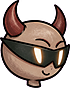
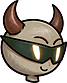
Diavoletto: testa coi colori di Ludo e mira in aria
La testa staccata della mira prende i colori dei fogli di Ludo (che schiariscono
la base): per ogni canale una tabella che porta l'istogramma della base A a
quello del primo fotogramma dell'attesa. I pugni hanno la pelle di Ludo.

Mirando in aria il busto della mira sta sulle gambe raccolte del salto: lo
strumento le monta allineando le cinture (mira_aria, 13 fotogrammi), il gioco
sceglie il fotogramma con la velocità verticale come nel salto. Nuovo scenario
mira_aria.txt.

Claude-Session: https://claude.ai/code/session_017yjtTFYULZmM7w9JdhJPNr

diff --git a/strumenti/grafica/diavoletto.py b/strumenti/grafica/diavoletto.py
@@ -52,6 +52,9 @@ AZIONI = {
     "fiammella": dict(base=None, da=0, a=35, passo=2, giro=True),
 }
 FPS = 12   # Ludo: 36 fotogrammi in 3 s
+# La mira in aria non ha un foglio: si monta il busto della mira sulle gambe
+# raccolte del salto (gli stessi fotogrammi in aria del salto, da..a)
+MIRA_ARIA = dict(da=8, a=20)
 
 
 def apri(path, corpo=True):
@@ -151,6 +154,85 @@ def giro_migliore(fot, da, a, corto, lungo):
     return best[1], best[2] - 1
 
 
+def colori_di_ludo(sorgente, ludo):
+    """Ludo schiarisce un po' i colori della sua base. Per ogni canale, la tabella
+    che porta i colori della base (ChatGPT) a quelli dello stesso disegno rifatto
+    da Ludo (il suo primo fotogramma): si confrontano i due istogrammi."""
+    lut = []
+    for c in range(3):
+        a = sorgente[..., c][sorgente[..., 3] > 0.9]
+        b = ludo[..., c][ludo[..., 3] > 0.9]
+        q = np.linspace(0, 1, 257)
+        lut.append((np.quantile(a, q), np.quantile(b, q)))
+    return lut
+
+
+def ricolora(a, lut):
+    out = a.copy()
+    for c, (x, y) in enumerate(lut):
+        out[..., c] = np.interp(a[..., c], x, y)
+    return out
+
+
+def cintura(a):
+    """La cintura: il pezzo grigio scuro largo più in basso (con la fibbia, se
+    è staccata). Ritorna il centro e il bordo sinistro."""
+    r, g, b, al = a[..., 0], a[..., 1], a[..., 2], a[..., 3]
+    mx = np.maximum(np.maximum(r, g), b)
+    mn = np.minimum(np.minimum(r, g), b)
+    m = (al > 0.5) & (mx - mn < 0.1) & (mx > 0.15) & (mx < 0.55)
+    lab, _ = nd.label(m)
+    c = []
+    for i, o in enumerate(nd.find_objects(lab)):
+        h, w = o[0].stop - o[0].start, o[1].stop - o[1].start
+        if w >= 1.2 * h and (lab[o] == i + 1).sum() > a.shape[0] * 0.4:
+            c.append((o[0].start, o[0].stop, o[1].start, o[1].stop))
+    giu = max(c, key=lambda t: t[0] + t[1])
+    u = [t for t in c if t[0] < giu[1] and t[1] > giu[0]]
+    y0, y1 = min(t[0] for t in u), max(t[1] for t in u)
+    x0, x1 = min(t[2] for t in u), max(t[3] for t in u)
+    return (x0 + x1) / 2, (y0 + y1) / 2, x0
+
+
+def gambe(a, cy, r):
+    """Le gambe sotto la cintura: il pezzo grande che resta togliendo le cose
+    sottili (la coda)."""
+    m = a[..., 3] > 0.5
+    m[:int(cy)] = False
+    m = nd.binary_opening(m, structure=np.ones((r, r)))
+    lab, n = nd.label(m)
+    if n > 1:
+        m = lab == 1 + int(np.argmax(nd.sum(m, lab, range(1, n + 1))))
+    return m
+
+
+def tela(f, k, fx, fy, ox, oy, shape):
+    """Il fotogramma f nella tela della base: scala k, piedi da (fx, fy) a (ox, oy)."""
+    pm = np.dstack([f[..., :3] * f[..., 3:], f[..., 3:]])
+    im = Image.fromarray((pm * 255).round().astype(np.uint8), "RGBA")
+    t = im.transform((shape[1], shape[0]), Image.AFFINE, (1 / k, 0, fx - ox / k, 0, 1 / k, fy - oy / k),
+                     resample=Image.BICUBIC)
+    b = np.asarray(t).astype(np.float32) / 255
+    al = b[..., 3:]
+    return np.dstack([np.where(al > 0, b[..., :3] / np.maximum(al, 1e-6), 0), al])
+
+
+def mira_in_aria(busto, salto):
+    """Il busto della mira (senza quello che ha sotto la cintura, dal dietro dei
+    pantaloni in avanti) con sotto, sopra di lui, le gambe del salto spostate sotto
+    la sua cintura. Tutti e due nella tela della base."""
+    bx, by, bx0 = cintura(busto)
+    sx, sy, _ = cintura(salto)
+    g = gambe(salto, sy, int(0.04 * salto.shape[0]))
+    sopra = np.roll(np.roll(salto * g[..., None], int(round(by - sy)), 0), int(round(bx - sx)), 1)
+    sotto = busto.copy()
+    sotto[int(by):, int(bx0 - 0.10 * busto.shape[1]):, 3] = 0
+    a = sopra[..., 3:]
+    al = a + sotto[..., 3:] * (1 - a)
+    rgb = (sopra[..., :3] * a + sotto[..., :3] * sotto[..., 3:] * (1 - a)) / np.maximum(al, 1e-6)
+    return np.dstack([np.where(al > 0, rgb, 0), al])
+
+
 def main():
     os.makedirs(OUT, exist_ok=True)
     for f in glob.glob(os.path.join(OUT, "*.png")):
@@ -180,6 +262,11 @@ def main():
     # la testa da sola: della misura della testa della base A, con il perno sul
     # collo; la cima della testa (per la fiammella) rispetto al perno
     d = apri(os.path.join(SORGENTE, "basi_chatgpt", "D_testa.png"))
+    # la testa staccata ha i colori di ChatGPT: le diamo quelli di Ludo, come il
+    # corpo della mira su cui sta
+    attesa = sorted(glob.glob(os.path.join(SORGENTE, "fogli", "attesa", "*.png")))
+    if attesa:
+        d = ricolora(d, colori_di_ludo(basi["A"], apri(attesa[0])))
     dtx, dty, testa_d = cima(d)
     sd = (testa_a[4] - testa_a[3]) / (testa_d[4] - testa_d[3])   # dalla D alla A
     cx, cy, w, h = salva(d, S * sd, "testa")
@@ -193,6 +280,7 @@ def main():
                  f"tx = {n((tx - nx) * S)}, ty = {n((ny - ty) * S)} }},")
 
     righe.append("\tanimazioni = {")
+    fogli_base = {}
     for nome, cfg in AZIONI.items():
         fogli = sorted(glob.glob(os.path.join(SORGENTE, "fogli", nome, "*.png")))
         if not fogli:
@@ -227,6 +315,7 @@ def main():
         fx, fy = piedi(fot[0][..., 3])
         _, cf, _ = cima(fot[0])
         k = (oy - cb) / (fy - cf)      # dal foglio alla base
+        fogli_base[nome] = (fot, k, fx, fy, ox, oy, scelti)
         for j, i in enumerate(scelti, 1):
             f = fot[i]
             nm = f"{nome}_{j}"
@@ -247,6 +336,26 @@ def main():
                 qx, qy = b(qx, qy)
                 riga += f", cx = {n(px)}, cy = {n(py)}, sx = {n(qx)}, sy = {n(qy)}"
             righe.append(riga + " },")
+            immagini.append(nm)
+        righe.append("\t\t},")
+    if "mira" in fogli_base and "salto" in fogli_base:
+        mfot, mk, mfx, mfy, mox, moy, mscelti = fogli_base["mira"]
+        sfot, sk, sfx, sfy, sox, soy, _ = fogli_base["salto"]
+        B = basi["B"]
+        righe.append(f"\t\tmira_aria = {{ fps = {FPS}, giro = false,")
+        for j, i in enumerate(range(MIRA_ARIA["da"], MIRA_ARIA["a"] + 1), 1):
+            m = mfot[mscelti[0]]
+            c = mira_in_aria(tela(m, mk, mfx, mfy, mox, moy, B.shape),
+                             tela(sfot[i], sk, sfx, sfy, sox, soy, B.shape))
+            nm = f"mira_aria_{j}"
+            cx, cy, w, h = salva(c, S, nm)
+            x, y = gioco(cx, cy, bx, by)
+            px, py, _ = cima(c)
+            qx, qy = spalla(c)
+            px, py = gioco(px, py, bx, by)
+            qx, qy = gioco(qx, qy, bx, by)
+            righe.append(f"\t\t\t{{ img = \"{nm}\", x = {n(x)}, y = {n(y)}, w = {w}, h = {h}, "
+                         f"cx = {n(px)}, cy = {n(py)}, sx = {n(qx)}, sy = {n(qy)} }},")
             immagini.append(nm)
         righe.append("\t\t},")
     righe += ["\t},", "}", ""]
